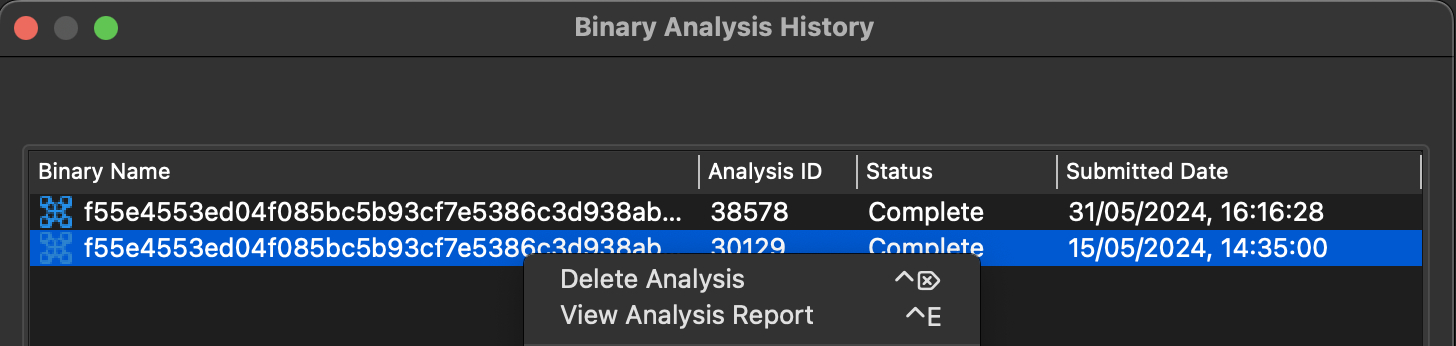
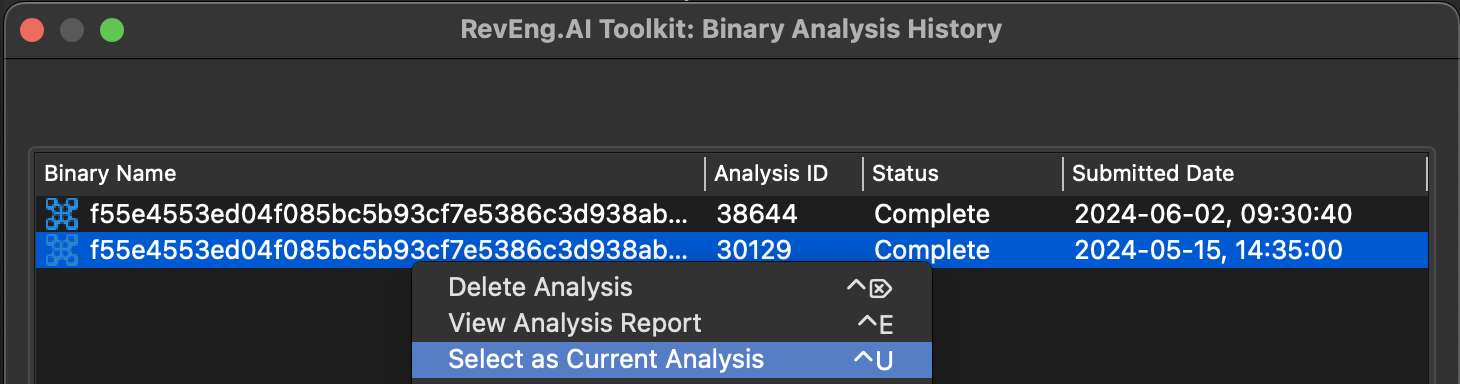
update

Changed region(s): [[0.0, 0.0, 1.0, 1.0]]

diff --git a/revengai/gui/dialog.py b/revengai/gui/dialog.py
@@ -3,7 +3,7 @@ import abc
 import logging
 
 from idc import get_input_file_path
-from idaapi import CH_CAN_DEL, CH_CAN_EDIT, CH_MULTI, CH_MODAL, CH_NO_STATUS_BAR, CHCOL_DEC, CHCOL_PLAIN, \
+from idaapi import CH_CAN_DEL, CH_CAN_EDIT, CH_CAN_REFRESH, CH_MODAL, CH_NO_STATUS_BAR, CHCOL_DEC, CHCOL_PLAIN, \
     Choose, Form, MFF_FAST, execute_sync
 
 from PyQt5.QtWidgets import QMessageBox
@@ -53,9 +53,9 @@ class BaseForm(Form):
 class StatusForm(BaseForm):
     class StatusFormChooser(Choose):
         def __init__(self, title: str, state: RevEngState, items: list,
-                     flags: int = CH_CAN_DEL | CH_CAN_EDIT | CH_MULTI | CH_MODAL | CH_NO_STATUS_BAR):
+                     flags: int = CH_CAN_DEL | CH_CAN_EDIT | CH_CAN_REFRESH | CH_MODAL | CH_NO_STATUS_BAR):
             Choose.__init__(self, title=title, flags=flags, embedded=True, icon=state.icon_id,
-                            popup_names=["", "Delete Analysis", "View Analysis Report",],
+                            popup_names=["", "Delete Analysis", "View Analysis Report", "Select as Current Analysis"],
                             cols=[["Binary Name", 30 | CHCOL_PLAIN],
                                   ["Analysis ID", 6 | CHCOL_DEC],
                                   ["Status", 8 | CHCOL_PLAIN],
@@ -80,22 +80,37 @@ class StatusForm(BaseForm):
             return len(self.items)
 
         def OnEditLine(self, sel) -> None:
-            logger.info("Analysis Report ID %s | %s",
-                        self.OnGetLine(sel[0])[1], self.OnGetLine(sel[0])[0])
+            pos = sel if isinstance(sel, int) else sel[0]
 
-            from webbrowser import open_new_tab
+            if pos >= 0:
+                logger.info("Analysis Report ID %s | %s",
+                            self.OnGetLine(pos)[1], self.OnGetLine(pos)[0])
 
-            open_new_tab(f"{self.state.config.PORTAL}/analyses/{self.OnGetLine(sel[0])[1]}")
+                from webbrowser import open_new_tab
+
+                open_new_tab(f"{self.state.config.PORTAL}/analyses/{self.OnGetLine(pos)[1]}")
+
+        def OnRefresh(self, sel) -> None:
+            pos = sel if isinstance(sel, int) else sel[0]
+
+            if 0 <= pos < self.OnGetSize():
+                logger.info("Selecting analysis ID %s as current", self.OnGetLine(pos)[1])
+
+                self.state.config.set("binary_id", self.OnGetLine(pos)[1])
 
         def OnDeleteLine(self, sel) -> tuple:
+            if isinstance(sel, int):
+                sel = [sel]
+
             for idx in sel:
-                logger.info("Delete analysis %s", self.OnGetLine(idx)[1])
+                logger.info("Delete analysis ID %s", self.OnGetLine(idx)[1])
 
                 inthread(RE_delete, self.fpath, self.OnGetLine(idx)[1])
 
                 self.state.config.database.delete_analysis(self.OnGetLine(idx)[1])
 
-                self.state.config.init_current_analysis()
+                if self.state.config.get("binary_id", 0) == self.OnGetLine(idx)[1]:
+                    self.state.config.init_current_analysis()
 
             self.items = [*filterfalse(lambda i: i in (self.OnGetLine(j) for j in sel), self.items)]
             return Choose.ALL_CHANGED, sel[0]

diff --git a/revengai/actions.py b/revengai/actions.py
@@ -106,8 +106,6 @@ def check_analyze(state: RevEngState) -> None:
     fpath = idc.get_input_file_path()
 
     if is_condition_met(state, fpath):
-        state.config.init_current_analysis()
-
         def bg_task() -> None:
             try:
                 bid = state.config.get("binary_id", 0)
@@ -170,8 +168,6 @@ def explain_function(state: RevEngState) -> None:
     fpath = idc.get_input_file_path()
 
     if is_condition_met(state, fpath):
-        state.config.init_current_analysis()
-
         def bg_task(pseudo_code: str) -> None:
             if len(pseudo_code) > 0:
                 try:
@@ -226,8 +222,6 @@ def download_logs(state: RevEngState) -> None:
     fpath = idc.get_input_file_path()
 
     if is_condition_met(state, fpath):
-        state.config.init_current_analysis()
-
         def bg_task() -> None:
             try:
                 res: Response = RE_logs(fpath, console=False, binary_id=state.config.get("binary_id", 0))
@@ -258,8 +252,6 @@ def function_signature(state: RevEngState, func_addr: int = 0) -> None:
     fpath = idc.get_input_file_path()
 
     if is_condition_met(state, fpath):
-        state.config.init_current_analysis()
-
         def bg_task(start_addr: int) -> None:
             try:
                 if start_addr is not idc.BADADDR:
@@ -300,8 +292,6 @@ def analysis_history(state: RevEngState) -> None:
     fpath = idc.get_input_file_path()
 
     if is_condition_met(state, fpath):
-        state.config.init_current_analysis()
-
         def bg_task() -> None:
             try:
                 res: Response = RE_search(fpath)
@@ -349,8 +339,6 @@ def load_recent_analyses(state: RevEngState) -> None:
     fpath = idc.get_input_file_path()
 
     if state.config.is_valid():
-        state.config.init_current_analysis()
-
         def bg_task() -> None:
             try:
                 res: Response = RE_recent_analysis()
@@ -387,8 +375,6 @@ def load_recent_analyses(state: RevEngState) -> None:
 
 def sync_functions_name(state: RevEngState, fpath: str) -> None:
     if state.config.is_valid() and fpath and isfile(fpath):
-        state.config.init_current_analysis()
-
         def bg_task() -> None:
             try:
                 res: Response = RE_analyze_functions(fpath, state.config.get("binary_id", 0))
@@ -432,8 +418,6 @@ def function_breakdown(state: RevEngState, function_id: int = 0) -> None:
     fpath = idc.get_input_file_path()
 
     if is_condition_met(state, fpath):
-        state.config.init_current_analysis()
-
         def bg_task(func_ea: int, func_id: int = 0) -> None:
             func_name = inmain(IDAUtils.get_demangled_func_name, func_ea)
 

diff --git a/revengai/conf/__init__.py b/revengai/conf/__init__.py
@@ -4,7 +4,7 @@ from json import loads, dumps
 from os.path import join, exists
 
 from requests import HTTPError
-from idaapi import get_user_idadir, retrieve_input_file_sha256
+from idaapi import get_user_idadir, retrieve_input_file_sha256, msg
 
 from reait.api import re_conf, RE_health, RE_settings
 
@@ -65,8 +65,6 @@ class RevEngConfiguration(object):
                 self._config = loads(fd.read())
 
             if self.is_valid():
-                self.init_current_analysis()
-
                 re_conf["host"] = self.config["host"]
                 re_conf["apikey"] = self.config["apikey"]
 
@@ -100,7 +98,7 @@ class RevEngConfiguration(object):
         return self._config
 
     def is_valid(self) -> bool:
-        return all(self.get(name) is not None for name in ("apikey", "host", "model",))
+        return all(self.get(name) is not None for name in ("apikey", "host",))
 
     @property
     def database(self) -> RevEngDatabase:
@@ -111,3 +109,5 @@ class RevEngConfiguration(object):
 
         if sha_256_hash:
             self.set("binary_id", self.database.get_last_analysis(sha_256_hash.hex()))
+
+            msg(f"Selecting current analysis ID {self.get('binary_id')}")

diff --git a/revengai/conf/database.py b/revengai/conf/database.py
@@ -98,7 +98,13 @@ class RevEngDatabase(object):
                                (sha_256_hash, status,))
 
                 result = cursor.fetchone()
-                return result[0] if result and len(result) > 0 else 0
+
+                analysis_id = result[0] if result and len(result) > 0 else 0
+
+                if analysis_id:
+                    logger.info("Selecting current analysis ID %d for binary hash: %s", analysis_id, sha_256_hash)
+
+                return analysis_id
         except Error as e:
             logger.error("Error getting last analysis for hash: %s. %s", sha_256_hash, e)
 

diff --git a/revengai/features/__init__.py b/revengai/features/__init__.py
@@ -33,8 +33,6 @@ class BaseDialog(QDialog):
 
         self.base_addr = get_imagebase()
 
-        state.config.init_current_analysis()
-
         self.setModal(True)
         self.setWindowIcon(QIcon(join(dirname(__file__), "../resources/favicon.png")))
 

diff --git a/README.md b/README.md
@@ -8,6 +8,7 @@ IDA Pro Plugin for [RevEng.AI](https://reveng.ai/).
 - Downloading logs for analysis from RevEng.AI platform
 - Removing analysis from RevEng.AI platform
 - Renaming of function names given with similar binaries
+- Synchronise all functions with differing names between the local analysis and the RevEng.AI platform.
 - Configuration and persistence of plugin configuration (API key, host, model selection and analysis)
 
 # Install
@@ -45,6 +46,8 @@ Before we do any analysis we need to upload a file. Uploading a file is availabl
 
 Select `Upload Binary`, it will automatically ask whether you want analysis to be done on the file. Currently the analysis does not support customisation but will in the future.
 
+![analyse_file](assets/img/11.png)
+
 Once the file has been sent for analysis, an analysis ID is automatically set internally so any future actions that are specific to an analysis will use this ID.
 
 You can check the status of your request by selecting `Check Analysis Status` from either of the menus like before.
@@ -53,7 +56,15 @@ The status of any previous analysis done can be viewed by selecting `Binary Anal
 
 ![select_file](assets/img/4.png)
 
-**A right click allows you to delete all selected analyses**
+**A right click allows you to delete, view analysis report or set as current analysis for the selected analysis**
+
+## Binary Synchronisation
+
+When a previously analysed binary is selected, a popup-window is displayed, prompting you to synchronise all local functions whose name differs from that present on the RevEng.AI platform. 
+
+![auto_sync](assets/img/12.png)
+
+**A right click allows you to sync, jump to or breakdown the selected function**
 
 ## Function Renaming
 
@@ -68,6 +79,8 @@ Currently all available functions from all binaries are displayed in order of si
 ![rename_function_dialog](assets/img/6.png)
 
 Selecting an entry from the list and then pressing `Rename` will cause the function to be renamed within IDA.
+
+**A right click allows you to rename or breakdown the selected function**
 
 #### Auto Analysis
 You can also batch analyse the binary to rename functions using the `Auto Analyze Binary Symbol`.
@@ -98,4 +111,4 @@ Select the function you are interested in, and from the decompiler view select `
 # Software Requirements
 
 RevEng.AI IDA uses:
-- [reait](https://github.com/RevEngAI/reait) (version >= 1.0.0)
+- [reait](https://github.com/RevEngAI/reait)
